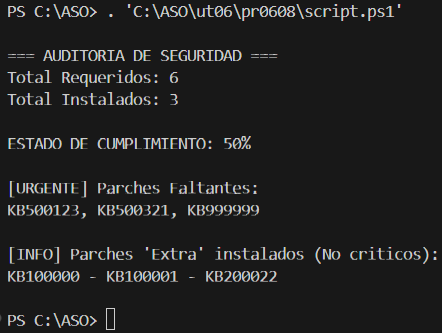
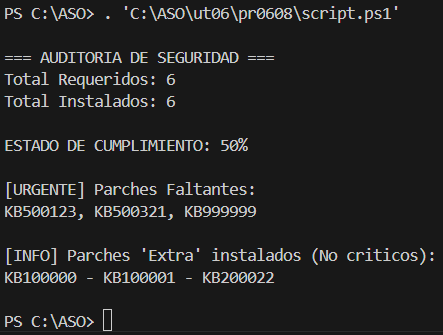
yeah

diff --git a/ut06/pr0608/pr0608.md b/ut06/pr0608/pr0608.md
@@ -81,13 +81,13 @@ $contadorReq = 0
 
 $contadorIns = 0
 
+$contadorYaInstalados = 0
+
 foreach ($itemReq in $kbsRequeridos) {
 
-    if ($itemReq -in $kbsInstalados) {
-        $contadorIns = $contadorIns +1
-    } else {
+    if ($itemReq -notin $kbsInstalados) {
         $kbsFaltantes += $itemReq
-    }
+    } 
 
     $contadorReq = $contadorReq + 1
 
@@ -95,13 +95,17 @@ foreach ($itemReq in $kbsRequeridos) {
 
 foreach ($itemIns in $kbsInstalados) {
 
-    if ($itemIns -notin $kbsRequeridos) {
+    if ($itemIns -in $kbsRequeridos) {
+        $contadorYaInstalados = $contadorYaInstalados + 1
+    } else {
         $kbsExtra += $itemIns
-    } 
+    }
+
+    $contadorIns = $contadorIns +1
 
 }
 
-$porcentaje = ($contadorIns / $contadorReq) * 100
+$porcentaje = ($contadorYaInstalados / $contadorReq) * 100
 
 Write-Host "
 === AUDITORIA DE SEGURIDAD ===
